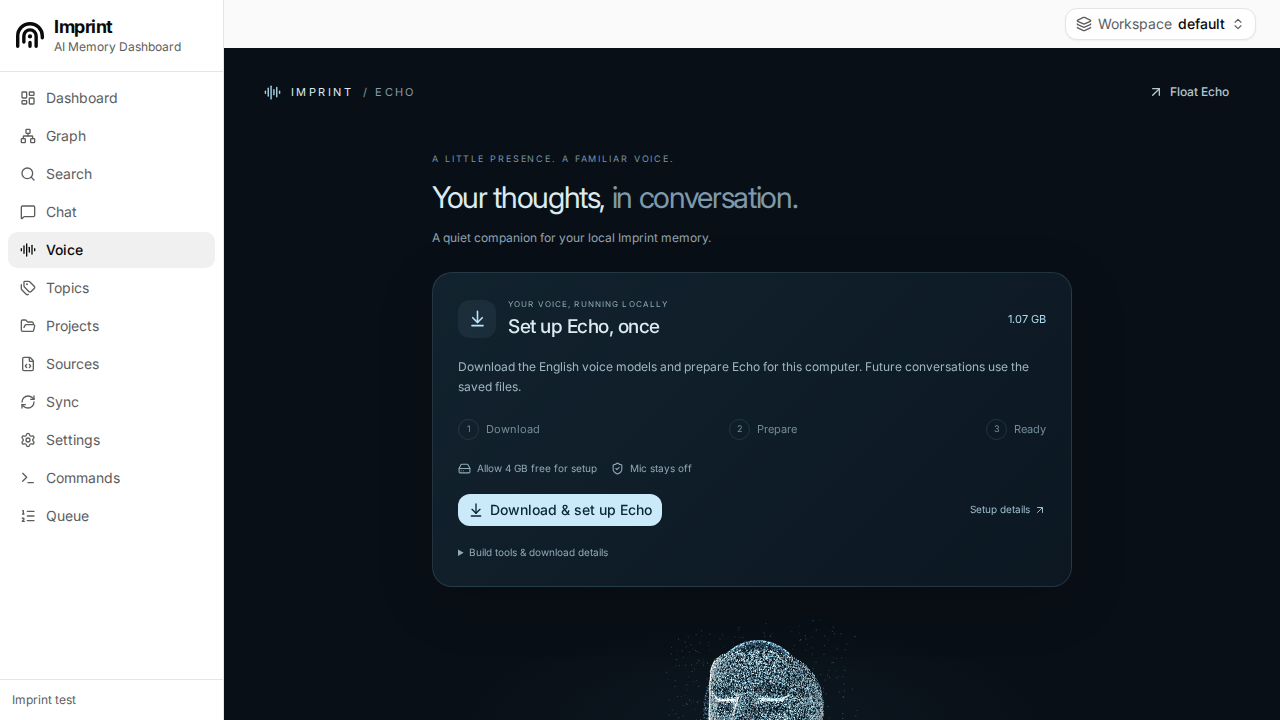
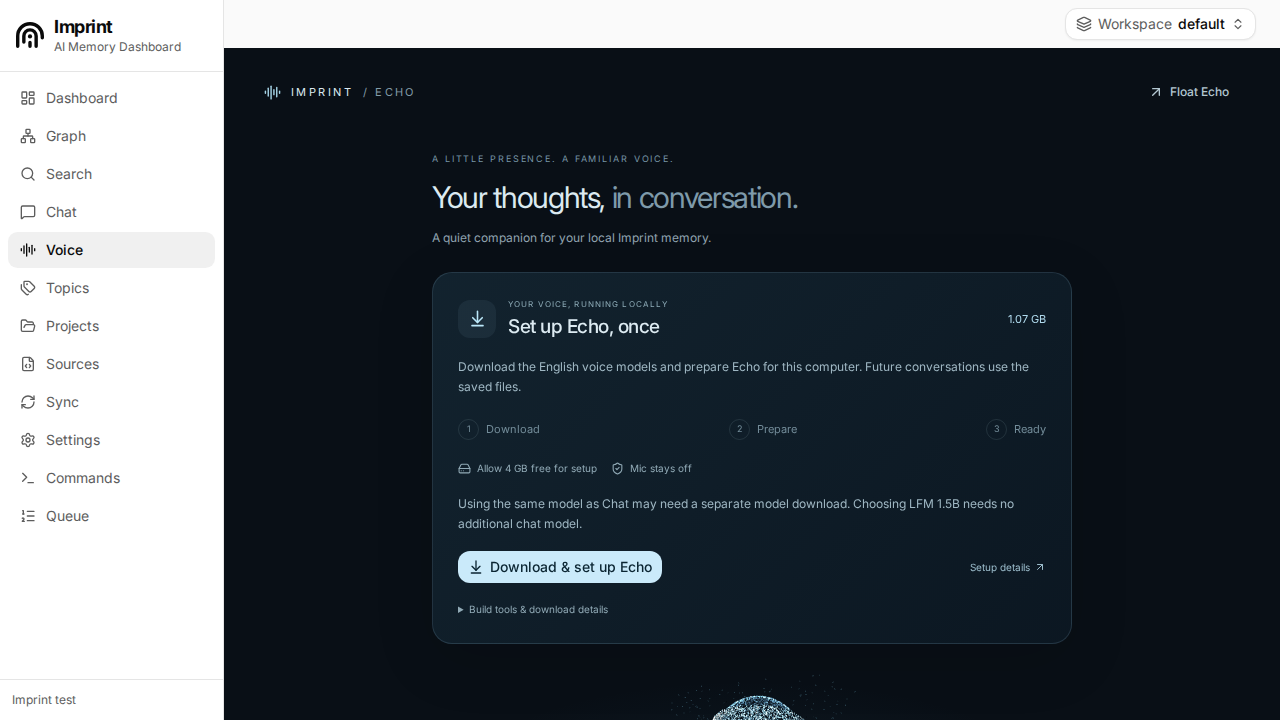
feat(voice): show first-time chat model download progress and setup stages

diff --git a/imprint/ui/src/lib/voice-client.ts b/imprint/ui/src/lib/voice-client.ts
@@ -2,12 +2,14 @@ import { API_BASE } from "./api-base";
 
 export type VoiceMode = "ptt" | "handsfree";
 export type VoicePhase = "idle" | "connecting" | "ready" | "listening" | "thinking" | "speaking" | "error";
+export type VoicePreparation = { stage: "install" | "download" | "load"; downloaded: number; total: number };
 export type VoiceSnapshot = {
   phase: VoicePhase; detail: string; connected: boolean; microphone: boolean;
   mode: VoiceMode; held: boolean; user: string; answer: string; workspace: string;
+  preparation: VoicePreparation | null;
 };
 export const initialVoice: VoiceSnapshot = { phase: "idle", detail: "Ready when you are", connected: false,
-  microphone: false, mode: "ptt", held: false, user: "", answer: "", workspace: "" };
+  microphone: false, mode: "ptt", held: false, user: "", answer: "", workspace: "", preparation: null };
 
 // Adaptive energy VAD, with onset hysteresis, endpoint silence and pre-roll.
 // This is intentionally separate from the acoustic model; see live-voice.md.
@@ -218,20 +220,26 @@ export class VoiceClient {
     this.sources.clear(); this.nextAudio = 0; this.level = 0;
     if (this.snapshot.connected) {
       if (pending) this.send({ type: "cancel" });
-      this.update({ phase: "ready", detail: this.snapshot.mode === "ptt" ? "Hold to talk" : "Listening for your voice" });
+      this.update({ phase: "ready", preparation: null, detail: this.snapshot.mode === "ptt" ? "Hold to talk" : "Listening for your voice" });
     }
   }
-  private receive(event: { type: string; id?: number; text?: string; data?: string; error?: string; state?: string; name?: string; workspace?: string }) {
+  private receive(event: { type: string; id?: number; text?: string; data?: string; error?: string; state?: string; name?: string; workspace?: string; stage?: string; downloaded?: number; total?: number }) {
     if (event.type === "connecting") { this.update({ detail: "Loading local voice…" }); return; }
     if (event.type === "ready") { this.update({ connected: true, phase: "ready", detail: "Type a question or enable your microphone", workspace: event.workspace }); return; }
     if (event.type === "error" && !event.id) { this.fail(event.error || "Voice unavailable."); return; }
     if (!event.id || event.id !== this.accepted) return;
     if (event.type === "user") this.update({ user: event.text || "" });
-    if (event.type === "text") this.update({ answer: this.snapshot.answer + event.text });
+    if (event.type === "provision" && ["install", "download", "load"].includes(event.stage || "")) {
+      const stage = event.stage as VoicePreparation["stage"];
+      this.update({ preparation: { stage, downloaded: Math.max(0, event.downloaded || 0), total: Math.max(0, event.total || 0) },
+        detail: stage === "download" ? "Downloading your chat model…" : stage === "install" ? "Setting up local chat…" : "Loading your chat model…" });
+      return;
+    }
+    if (event.type === "text") this.update({ answer: this.snapshot.answer + event.text, preparation: null });
     if (event.type === "state") this.update({ detail: event.state === "transcribing" ? "Hearing your question…" : "Thinking…" });
-    if (event.type === "tool") this.update({ detail: `Checking memory · ${event.name}` });
+    if (event.type === "tool") this.update({ detail: `Checking memory · ${event.name}`, preparation: null });
     if (event.type === "audio" && event.data) this.play(event.data);
-    if (event.type === "done") this.complete = event.id;
+    if (event.type === "done") { this.complete = event.id; this.update({ preparation: null }); }
     if (event.type === "error") { this.interrupt(); this.update({ detail: event.error || "Try again." }); }
   }
   private play(encoded: string) {
@@ -276,6 +284,6 @@ export class VoiceClient {
     void this.context?.close().catch(() => {}); this.context = undefined;
     this.micPending = false;
     clearInterval(this.timer); this.timer = undefined; this.gate.reset(); this.heldFrames = [];
-    this.update({ connected: false, microphone: false, held: false, phase: "idle", detail: "Microphone off" });
+    this.update({ connected: false, microphone: false, held: false, preparation: null, phase: "idle", detail: "Microphone off" });
   }
 }

diff --git a/imprint/ui/src/components/voice-setup.tsx b/imprint/ui/src/components/voice-setup.tsx
@@ -6,6 +6,7 @@ import { Button } from "@/components/ui/button";
 import { Progress } from "@/components/ui/progress";
 import { Spinner } from "@/components/loaders";
 import { formatDownloadBytes, setupLabels, useVoiceSetup } from "@/lib/voice-setup";
+import type { VoicePreparation } from "@/lib/voice-client";
 
 const guide = "https://github.com/alexandruleca/imprint-memory-layer/blob/feat/local-voice-avatar/docs/live-voice.md#first-time-setup-in-imprint";
 const problems: Record<string, string> = {
@@ -18,6 +19,21 @@ const problems: Record<string, string> = {
   setup: "Echo setup couldn't start. Restart Imprint and try again. Your existing downloads are kept.",
 };
 const steps = ["Download", "Prepare", "Ready"];
+
+export function VoiceChatSetup({ preparation, compact = false }: { preparation: VoicePreparation | null; compact?: boolean }) {
+  if (!preparation) return null;
+  const { stage, downloaded, total } = preparation;
+  const percent = stage === "download" && total > 0 ? Math.min(100, Math.round(downloaded / total * 100)) : null;
+  const title = stage === "install" ? "Installing local chat support" : stage === "download" ? "Downloading your chat model" : "Loading your chat model";
+  return <section className={`echo-setup ${compact ? "echo-setup-compact" : ""}`} aria-label="Local chat preparation" aria-busy="true">
+    <div className="echo-setup-heading"><Spinner className="size-4"/><div><p className="echo-setup-eyebrow">{stage === "load" ? "SAME MODEL AS CHAT" : "FIRST-TIME CHAT SETUP"}</p><h2>{title}</h2></div></div>
+    <div className="echo-setup-progress"><div className="echo-setup-progress-label"><span role="status">{title}</span><span>{percent !== null ? `${percent}%` : "In progress"}</span></div>
+      <Progress aria-label="Local chat model preparation" value={percent}/>
+      <p>{stage === "download" ? total > 0 ? `${formatDownloadBytes(downloaded)} of ${formatDownloadBytes(total)}` : `${formatDownloadBytes(downloaded)} downloaded` : "This can take a few minutes. Your question will continue when the model is ready."}</p>
+    </div>
+    {stage !== "load" && <p className="echo-setup-description">This is separate from Echo’s voice files and uses the same model as Chat. Chat setup continues if you stop voice; saved files are reused.</p>}
+  </section>;
+}
 
 export function VoiceSetup({ setup, compact = false }: { setup: ReturnType<typeof useVoiceSetup>; compact?: boolean }) {
   const { state, error, pending, start, cancel } = setup;
@@ -49,6 +65,7 @@ export function VoiceSetup({ setup, compact = false }: { setup: ReturnType<typeo
       {state?.stage === "cancelled" && <p className="echo-setup-description">Verified files are saved. Continue whenever you’re ready; the current unfinished file downloads again.</p>}
       {error && <p role="alert" className="echo-setup-error">{error}</p>}
       {!busy && <div className="echo-setup-facts"><span><HardDrive size={13} aria-hidden/> Allow 4 GB free for setup</span><span><ShieldCheck size={13} aria-hidden/> Mic stays off</span></div>}
+      {!busy && <p className="echo-setup-description">Using the same model as Chat may need a separate model download. Choosing LFM 1.5B needs no additional chat model.</p>}
       <div className="echo-setup-actions">
         {busy ? <Button variant="outline" size="sm" disabled={pending || state?.stage === "cancelling"} onClick={() => void cancel()}>{state?.stage === "cancelling" ? "Cancelling…" : "Cancel setup"}</Button>
           : <Button className="echo-setup-download" disabled={pending || !state || !!error} onClick={() => void start()}>{pending ? <Spinner/> : <ArrowDownToLine size={16} aria-hidden/>}{pending ? "Starting setup…" : state?.stage === "blocked" ? "Check again" : state?.stage === "error" ? "Retry setup" : state?.stage === "cancelled" ? "Continue setup" : "Download & set up Echo"}</Button>}

diff --git a/imprint/ui/src/components/voice-surface.tsx b/imprint/ui/src/components/voice-surface.tsx
@@ -7,7 +7,7 @@ import { Button } from "@/components/ui/button";
 import { VoiceClient, initialVoice, type VoiceSnapshot } from "@/lib/voice-client";
 import { API_BASE } from "@/lib/api-base";
 import { useVoiceSetup } from "@/lib/voice-setup";
-import { VoiceSetup } from "@/components/voice-setup";
+import { VoiceSetup, VoiceChatSetup } from "@/components/voice-setup";
 import "@/styles/voice.css";
 
 const EchoAvatar = dynamic(() => import("./echo-avatar"), { ssr: false });
@@ -46,7 +46,7 @@ export function VoiceSurface({ compact = false }: { compact?: boolean }) {
     if (window.electronAPI?.openCompanion) window.electronAPI.openCompanion();
     else window.open("/companion/", "imprint-echo", "popup,width=380,height=560");
   }
-  return <section className={`voice-surface ${compact ? "voice-compact" : ""} ${!ready ? "voice-needs-setup" : ""}`} data-phase={voice.phase}>
+  return <section className={`voice-surface ${compact ? "voice-compact" : ""} ${!ready || voice.preparation ? "voice-needs-setup" : ""}`} data-phase={voice.phase}>
     <header className={`voice-header ${compact ? "app-drag" : ""}`}>
       <div className="voice-wordmark"><AudioLines size={17} aria-hidden="true"/><span>IMPRINT <b>/ ECHO</b></span></div>
       <div className="voice-window-actions app-no-drag">
@@ -58,6 +58,7 @@ export function VoiceSurface({ compact = false }: { compact?: boolean }) {
     </header>
     {!compact && <div className="voice-intro"><span className="voice-eyebrow">A LITTLE PRESENCE. A FAMILIAR VOICE.</span><h1>Your thoughts,<br/> <em>in conversation.</em></h1><p>A quiet companion for your local Imprint memory.</p></div>}
     {!ready && !compact && <VoiceSetup setup={setup}/>}
+    {!compact && <VoiceChatSetup preparation={voice.preparation}/>}
     <div className="voice-stage">
       <div className="voice-halo" aria-hidden="true"/>
       <EchoAvatar phase={voice.phase} energy={energy} compact={compact}/>
@@ -86,6 +87,7 @@ export function VoiceSurface({ compact = false }: { compact?: boolean }) {
             <Button variant="ghost" size="icon-lg" aria-label="Stop conversation and microphone" onClick={() => client.current?.stop()}><MicOff size={18}/></Button>
           </>}
       </div>
+      {compact && <VoiceChatSetup preparation={voice.preparation} compact/>}
       <p className="voice-privacy" role="status">{voice.phase === "error" || (!voice.microphone && voice.connected && voice.detail.includes("permission")) ? voice.detail : voice.microphone ? voice.mode === "handsfree" ? "Mic on · speak to start, speak again to interrupt" : "Mic armed · hold button or focused Space key" : "Microphone off · English · runs locally"}</p>
       <form className="voice-text" onSubmit={event => { event.preventDefault(); if (voice.connected && text.trim()) { client.current?.text(text); setText(""); input.current?.focus(); } }}>
         <input ref={input} aria-label="Type a question" placeholder="Or type a thought…" value={text} maxLength={2000} disabled={!voice.connected} onChange={event => setText(event.target.value)}/>

diff --git a/imprint/ui/tests/voice.spec.ts b/imprint/ui/tests/voice.spec.ts
@@ -148,3 +148,22 @@ test('push-to-talk captures through AudioWorklet and sends a bounded WAV on rele
   await page.getByRole('button', { name: 'Stop conversation and microphone' }).click();
   await expect(page.getByRole('status').filter({ hasText: 'Microphone off' })).toBeVisible();
 });
+
+test('first-time chat setup shows real download progress in Voice and ignores late progress after interruption', async ({ page }) => {
+  const server = await prepare(page);
+  await page.goto('/voice/');
+  await page.getByRole('button', { name: 'Start conversation' }).click();
+  await page.getByRole('textbox', { name: 'Type a question' }).fill('Hello');
+  await page.getByRole('button', { name: 'Send question' }).click();
+  await expect.poll(() => server.controls.some(c => c.type === 'turn')).toBe(true);
+  server.send({ type: 'provision', id: 1, stage: 'install' });
+  await expect(page.getByRole('heading', { name: 'Installing local chat support' })).toBeVisible();
+  await expect(page.getByRole('progressbar', { name: 'Local chat model preparation' })).not.toHaveAttribute('aria-valuenow');
+  server.send({ type: 'provision', id: 1, stage: 'download', downloaded: 500000000, total: 1000000000 });
+  await expect(page.getByRole('progressbar', { name: 'Local chat model preparation' })).toHaveAttribute('aria-valuenow', '50');
+  await expect(page.getByText('500 MB of 1.00 GB')).toBeVisible();
+  await expect(page.getByText(/Chat setup continues if you stop voice/)).toBeVisible();
+  await page.getByRole('button', { name: 'Interrupt reply' }).click();
+  server.send({ type: 'provision', id: 1, stage: 'download', downloaded: 900000000, total: 1000000000 });
+  await expect(page.getByRole('region', { name: 'Local chat preparation' })).toHaveCount(0);
+});

diff --git a/imprint/ui/tests/voice-setup.spec.ts b/imprint/ui/tests/voice-setup.spec.ts
@@ -39,13 +39,14 @@ test('first-time setup explains size and saved downloads before an explicit acti
   expect(fixture.starts()).toBe(1);
 });
 
-test('download bytes remain visible across navigation; preparation has no fabricated percentage', async ({ page }) => {
+test('download bytes remain visible across navigation; preparation has no fabricated percentage', async ({ page }, testInfo) => {
   const fixture = await prepareSetup(page);
   await page.goto('/voice/');
   await page.getByRole('button', { name: 'Download & set up Echo' }).click();
   fixture.update({ downloaded: 537397344 });
   await expect(page.getByRole('progressbar', { name: 'Voice model download' })).toHaveAttribute('aria-valuenow', '50');
   await expect(page.getByText('537 MB of 1.07 GB')).toBeVisible();
+  await page.screenshot({ path: testInfo.outputPath('echo-download-progress.png'), fullPage: true });
   await page.getByRole('link', { name: 'Settings', exact: true }).click();
   const indicator = page.getByRole('link', { name: /Echo · 50%.*View voice setup/ });
   await expect(indicator).toBeVisible();
@@ -88,5 +89,5 @@ test('compact first-run setup leaves the head transparent and fits a narrow wind
   await expect(page.locator('.voice-compact')).toHaveCSS('border-top-width', '0px');
   expect(await page.evaluate(() => document.documentElement.scrollWidth <= innerWidth)).toBe(true);
   await expect(page.getByRole('button', { name: 'Download & set up Echo' })).toBeVisible();
-  await page.screenshot({ path: testInfo.outputPath('echo-first-setup-compact.png'), fullPage: true });
+  await page.screenshot({ path: testInfo.outputPath('echo-first-setup-compact.png'), fullPage: true, omitBackground: true });
 });

diff --git a/imprint/voice_api.py b/imprint/voice_api.py
@@ -27,6 +27,8 @@ router = APIRouter(prefix="/api/voice")
 MAX_MESSAGE = 2_000_000
 MAX_AUDIO = 1_440_044  # 30 seconds, mono PCM16/24 kHz plus WAV header
 STARTUP_TIMEOUT = 120  # Includes full asset verification as well as native load.
+TURN_TIMEOUT = 120
+CHAT_SETUP_TIMEOUT = 1800  # First-time binding/model provisioning is not a reply.
 
 
 def worker_threads() -> int:
@@ -399,7 +401,7 @@ async def stream(websocket: WebSocket):
                 if not flag.is_set():
                     await send({**event, "id": identifier})
             try:
-                async with asyncio.timeout(120):
+                async with asyncio.timeout(TURN_TIMEOUT) as turn_budget:
                     question = message.get("text", "").strip()
                     if message.get("audio"):
                         content = await audio_content(message["audio"])
@@ -439,8 +441,12 @@ async def stream(websocket: WebSocket):
                                         await emit(audio)
 
                         pending = ""
+                        provisioning = False
                         async for event in chat_events(question, list(history), workspace, flag):
                             kind = event["type"]
+                            if provisioning and kind in {"token", "tool_call"}:
+                                turn_budget.reschedule(asyncio.get_running_loop().time() + TURN_TIMEOUT)
+                                provisioning = False
                             if kind == "error":
                                 raise PrototypeError("The chat model could not reply. Open Chat to check its setup.")
                             if kind == "token":
@@ -457,8 +463,17 @@ async def stream(websocket: WebSocket):
                                     await synthesize(phrase)
                             elif kind == "tool_call":
                                 await emit({"type": "tool", "name": event["name"]})
-                            elif kind in {"load_start", "install_start", "download_start"}:
-                                await emit({"type": "state", "state": "loading chat model"})
+                            elif kind in {"install_start", "download_start", "download_progress", "download_complete", "load_start"}:
+                                if kind in {"install_start", "download_start"} and not provisioning:
+                                    turn_budget.reschedule(asyncio.get_running_loop().time() + CHAT_SETUP_TIMEOUT)
+                                    provisioning = True
+                                stage = "install" if kind == "install_start" else "download" if kind.startswith("download_") and kind != "download_complete" else "load"
+                                progress = {"type": "provision", "stage": stage}
+                                for name in ("downloaded", "total"):
+                                    value = event.get(name)
+                                    if type(value) is int and 0 <= value <= 1_000_000_000_000:
+                                        progress[name] = value
+                                await emit(progress)
                         if pending.strip():
                             await synthesize(pending)
                     if answer.strip():

diff --git a/tests/test_voice.py b/tests/test_voice.py
@@ -152,6 +152,35 @@ class VoiceBoundaryTests(unittest.TestCase):
         self.assertEqual("".join(spoken).strip(), reply.strip())
         self.assertTrue(all(len(part) <= 240 for part in spoken))
 
+    def test_first_chat_download_has_progress_and_a_separate_budget_without_private_logs(self):
+        async def events(*args):
+            yield {"type": "install_start"}
+            yield {"type": "install_progress", "line": "PRIVATE /user/profile/install.log"}
+            await asyncio.sleep(.15)
+            yield {"type": "download_start", "path": "/PRIVATE/model.gguf", "repo": "PRIVATE"}
+            yield {"type": "download_progress", "downloaded": 12, "total": 24}
+            await asyncio.sleep(.15)
+            yield {"type": "load_start"}
+            yield {"type": "token", "text": "A local answer."}
+            yield {"type": "done"}
+        async def native(*args):
+            yield {"type": "audio", "data": "AAAAAA==", "sample_rate": 24000, "format": "pcm16"}
+        with patch.object(voice.sessions.worker, "start", new_callable=AsyncMock), \
+                patch.object(voice.sessions.worker, "stop", new_callable=AsyncMock), \
+                patch.object(voice.sessions.worker, "stream", side_effect=native), \
+                patch.object(voice, "chat_events", side_effect=events), \
+                patch.object(voice, "TURN_TIMEOUT", .1), patch.object(voice, "CHAT_SETUP_TIMEOUT", 5):
+            with self.client.websocket_connect("ws://127.0.0.1:8420/api/voice/stream", headers={"Origin": "http://127.0.0.1:8420"}) as ws:
+                ws.send_json({"token": self.token(engine="chat")}); ws.receive_json(); ws.receive_json()
+                ws.send_json({"type": "turn", "id": 1, "text": "Hello"})
+                received = []
+                while not received or received[-1]["type"] != "done":
+                    event = ws.receive_json(); received.append(event)
+                    self.assertNotEqual(event["type"], "error", event)
+        self.assertIn({"type": "provision", "stage": "download", "downloaded": 12, "total": 24, "id": 1}, received)
+        self.assertNotIn("PRIVATE", json.dumps(received))
+        self.assertTrue(any(event["type"] == "audio" for event in received))
+
 
 class VoiceValidationTests(unittest.IsolatedAsyncioTestCase):
     async def test_startup_budget_includes_asset_verification_before_launch(self):

diff --git a/docs/platform-validation.md b/docs/platform-validation.md
@@ -453,5 +453,23 @@ pinning and dashboard on/off session cleanup. Fresh byte downloads and cached
 reuse use small hash-verified network fixtures in unit tests; first-run UI states
 use API fixtures. This does not establish a fresh 1.07 GB UI-driven download or
 fresh compiler installation on a user's machine. Native Windows/macOS execution
-of this new setup/cancellation path is a separate gate from the previous native
-speech evidence above.
+of this new setup/cancellation path passed on source `1980545`: the
+[native setup/speech/desktop run](https://github.com/alexandruleca/imprint-memory-layer/actions/runs/40087296414)
+passed Windows x64, Intel Mac, Apple Silicon and Linux x64, including 25 voice
+checks and the real setup owner/descendant shutdown test. Each graphical job
+also invoked the managed setup child against its verified native cache and
+reached ready. The [general CI](https://github.com/alexandruleca/imprint-memory-layer/actions/runs/40087296430)
+passed all five native backend targets, frontend and workflow checks. This
+establishes cached setup and native process lifecycle, not a fresh full UI
+download/build or real microphone/TCC validation.
+
+Follow-up for the same-Chat route: Voice now forwards real chat install/download/
+load progress without raw package logs, paths or repository metadata. A bounded
+first-time setup budget is separate from normal reply generation. A regression
+delays provisioning beyond the ordinary reply timeout, verifies actual byte
+events and privacy filtering, then completes the spoken reply. A browser case
+checks chat download percentage/bytes and rejection of late progress after
+interruption. This path does not benchmark or freshly provision the actual chat
+model; the existing chat provisioning policy remains in force.
+The follow-up passed 26 voice/setup Python checks and 11 voice/setup browser
+scenarios locally, plus the UI production build and lint.

diff --git a/docs/adr/0046-visible-echo-runtime-setup.md b/docs/adr/0046-visible-echo-runtime-setup.md
@@ -28,6 +28,16 @@ Preparation has an indeterminate indicator, without an invented percentage or
 completion time. Keep a top-bar status link visible across dashboard navigation.
 Never start voice or enable the microphone upon setup completion.
 
+Also disclose the separate model needed by the default same-Chat reasoning
+route. Forward its existing install/download/load events into a visible voice
+preparation panel with actual byte progress, excluding raw package logs, paths
+and repository metadata. First-time chat provisioning gets a bounded 30-minute
+setup budget; return to the ordinary two-minute reply budget on its first token.
+Otherwise a valid initial model download could exhaust the reply timeout before
+it finishes. Preserve ADR 0035's policy of completing chat provisioning safely
+after voice cancellation; clearly disclose this and reject stale progress after
+interruption. The LFM-only route needs no additional chat model.
+
 Use a dedicated managed setup child and a bounded JSON progress protocol. The
 browser may start/cancel the fixed installer, but cannot supply cache paths,
 URLs, executables or commands. Mutation endpoints require the exact local

diff --git a/docs/live-voice.md b/docs/live-voice.md
@@ -49,7 +49,17 @@ This can take a few minutes. A top-bar indicator links back to setup while you
 continue using other dashboard pages. Completion enables **Start conversation**;
 it never opens the microphone or starts a conversation automatically.
 
+The **Same local model as Chat** route may separately install chat support and
+download the configured chat model on your first question. Voice shows its real
+download bytes, installation and loading stages rather than a generic thinking
+state. This setup has a separate 30-minute budget; normal reply generation is
+bounded to two minutes once tokens begin. Stopping voice clears playback and the
+voice request, while the existing chat provisioning job finishes safely and can
+be joined by a later question. Choosing **Small voice model · LFM 1.5B** avoids
+the additional chat model.
+
 [Dashboard preview](assets/voice/echo-first-time-setup.png) ·
+[Download progress](assets/voice/echo-download-progress.png) ·
 [Transparent companion preview](assets/voice/echo-first-time-setup-compact.png).
 
 **Cancel setup** stops its owned download/build process tree. Verified files are
